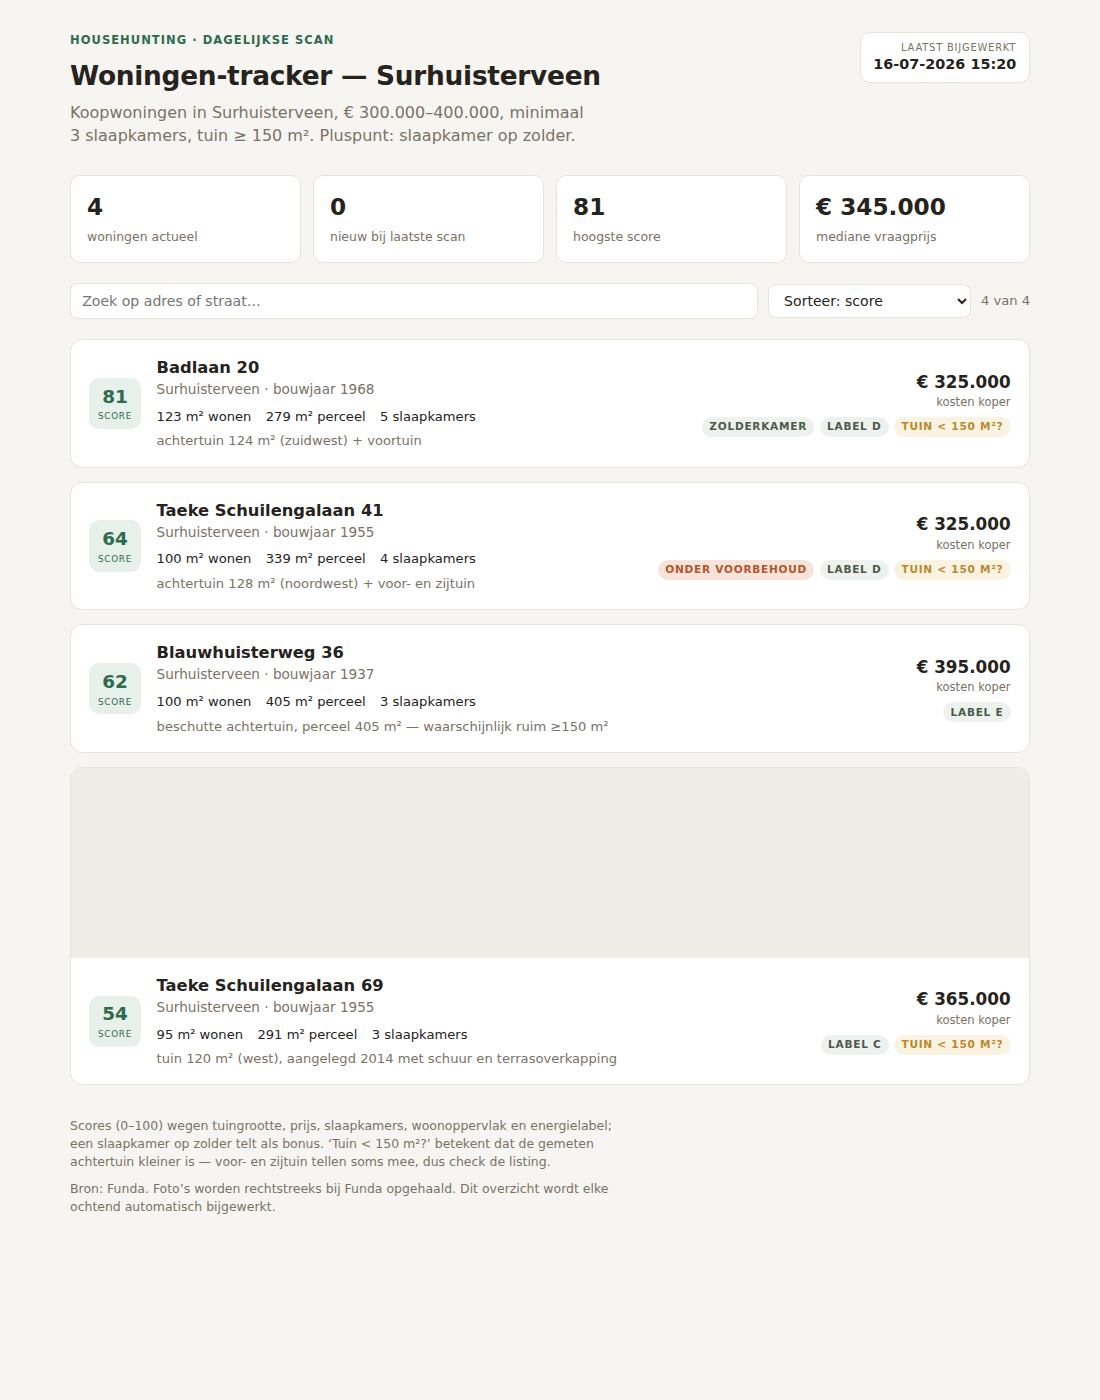
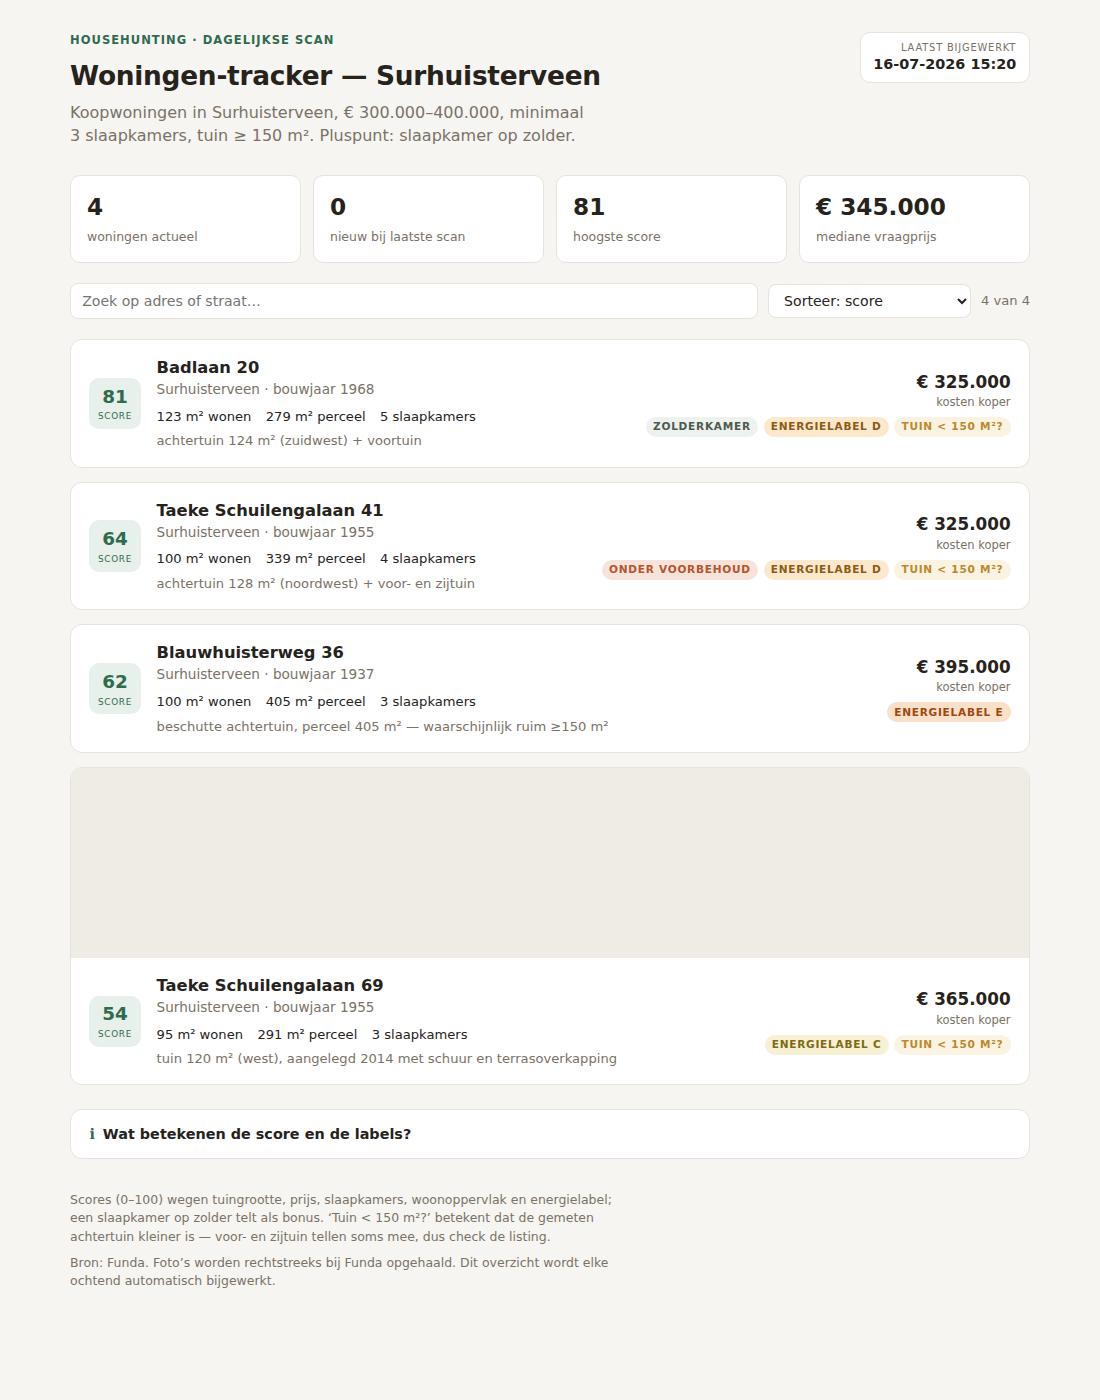
Uitlegblok + kleurgecodeerde energielabels + tooltips op alle badges

diff --git a/_build/template.html b/_build/template.html
@@ -72,6 +72,21 @@
   .b-new{background:#f6e3d9; color:var(--new)}
   .b-label{background:#eef2ee; color:#4c5a4c}
   .b-tuin{background:#fbf3e2; color:var(--gold)}
+  .b-eA{background:#dff0e2; color:#1c6b3a}
+  .b-eB{background:#e7f0d8; color:#4a7020}
+  .b-eC{background:#f7f0d2; color:#7d6a12}
+  .b-eD{background:#fbe8cd; color:#8f5a14}
+  .b-eE{background:#fadfc9; color:#9c4a10}
+  .b-eFG{background:#f8d9d2; color:#a03421}
+  .badge[title]{cursor:help}
+  .uitleg{margin-top:1.5rem; background:var(--card); border:1px solid var(--line); border-radius:12px}
+  .uitleg summary{padding:.85rem 1.15rem; cursor:pointer; font-weight:600; font-size:.9rem; list-style:none}
+  .uitleg summary::before{content:"\2139\FE0E"; margin-right:.5rem; color:var(--accent)}
+  .uitleg[open] summary{border-bottom:1px solid var(--line)}
+  .uitleg .body{padding:1rem 1.15rem; font-size:.85rem; color:var(--ink)}
+  .uitleg .body p{margin-bottom:.6rem; max-width:70ch}
+  .uitleg .body p:last-child{margin-bottom:0}
+  .uitleg .body .badge{margin-right:.3rem}
   footer{margin-top:2rem; font-size:.78rem; color:var(--muted); max-width:70ch}
   footer p+p{margin-top:.5rem}
   @media (max-width:640px){
@@ -116,6 +131,15 @@
 
   <div class="list" id="list"></div>
 
+  <details class="uitleg">
+    <summary>Wat betekenen de score en de labels?</summary>
+    <div class="body">
+      <p><strong>Score (0&ndash;100):</strong> hoe goed de woning bij jullie wensen past. Telt mee: tuingrootte, prijs (goedkoper is beter binnen het budget), aantal slaapkamers, woonoppervlak, energielabel, een slaapkamer op zolder (+10) en een voorkeursstraat (+5). Boven de 75 is een sterke match; onder de 60 voldoet de woning w&eacute;l aan de eisen maar zonder extra&rsquo;s.</p>
+      <p><strong>Energielabel</strong> (schaal A&ndash;G): hoe zuinig de woning is &mdash; <span class="badge b-eA">A = zeer zuinig</span> <span class="badge b-eC">C&ndash;D = gemiddeld</span> <span class="badge b-eFG">F&ndash;G = onzuinig</span>. Een slechter label betekent hogere energiekosten en vaak nog isolatiewerk.</p>
+      <p><span class="badge b-new">Nieuw</span> vandaag voor het eerst gevonden &middot; <span class="badge b-new">Onder voorbehoud</span> er is al een koper, verkoop bijna rond &middot; <span class="badge b-label">Zolderkamer</span> slaapkamer op zolder aanwezig (jullie wens) &middot; <span class="badge b-label">Voorkeursstraat</span> straat van jullie voorkeurslijst &middot; <span class="badge b-tuin">Tuin &lt; 150 m&sup2;?</span> gemeten achtertuin is kleiner dan de eis &mdash; voor- en zijtuin tellen soms mee, dus check de listing zelf.</p>
+    </div>
+  </details>
+
   <footer>
     <p>Scores (0&ndash;100) wegen tuingrootte, prijs, slaapkamers, woonoppervlak en energielabel; een slaapkamer op zolder telt als bonus. &lsquo;Tuin&nbsp;&lt;&nbsp;150&nbsp;m&sup2;?&rsquo; betekent dat de gemeten achtertuin kleiner is &mdash; voor- en zijtuin tellen soms mee, dus check de listing.</p>
     <p>Bron: Funda. Foto&rsquo;s worden rechtstreeks bij Funda opgehaald. Dit overzicht wordt elke ochtend automatisch bijgewerkt.</p>
@@ -131,6 +155,11 @@ const isNew = x => x.status === "nieuw";
 el("t-new").textContent = DATA.filter(isNew).length;
 el("t-top").textContent = DATA.length ? Math.max(...DATA.map(x=>x.score)) : "–";
 
+function labelBadge(l){
+  if(!l || l==="–") return "";
+  const cls = l.startsWith("A") ? "b-eA" : l==="B" ? "b-eB" : l==="C" ? "b-eC" : l==="D" ? "b-eD" : l==="E" ? "b-eE" : "b-eFG";
+  return `<span class="badge ${cls}" title="Energielabel ${l} — schaal van A (zeer zuinig) tot G (onzuinig)">Energielabel ${l}</span>`;
+}
 function card(x){
   const foto = x.foto
     ? `<img class="foto" src="${x.foto}" loading="lazy" alt="Foto ${x.adres}" referrerpolicy="no-referrer" onerror="this.closest('.huis').classList.add('nofoto')">`
@@ -138,7 +167,7 @@ function card(x){
   return `<article class="huis${x.foto ? '' : ' nofoto'}">
     ${foto}
     <div class="row">
-      <div class="scorebox"><b>${x.score}</b><span>score</span></div>
+      <div class="scorebox" title="Matchscore 0–100: hoe goed deze woning bij jullie wensen past — zie de uitleg onderaan"><b>${x.score}</b><span>score</span></div>
       <div>
         <h2><a href="${x.url}" target="_blank" rel="noopener">${x.adres}</a></h2>
         <div class="plaats">${x.plaats}${x.bouwjaar ? " &middot; bouwjaar " + x.bouwjaar : ""}</div>
@@ -152,12 +181,12 @@ function card(x){
       <div class="prijs">
         <b>&euro;&nbsp;${nf.format(x.prijs)}</b><span class="kk">kosten koper</span>
         <div class="badges">
-          ${isNew(x) ? '<span class="badge b-new">Nieuw</span>' : ""}
-          ${x.voorkeur ? '<span class="badge b-label">Voorkeursstraat</span>' : ""}
-          ${x.voorbehoud ? '<span class="badge b-new">Onder voorbehoud</span>' : ""}
-          ${x.zolder ? '<span class="badge b-label">Zolderkamer</span>' : ""}
-          ${x.label!=="–" ? '<span class="badge b-label">Label '+x.label+'</span>' : ""}
-          ${x.tuinTwijfel ? '<span class="badge b-tuin">Tuin &lt; 150 m&sup2;?</span>' : ""}
+          ${isNew(x) ? '<span class="badge b-new" title="Bij de laatste scan voor het eerst gevonden">Nieuw</span>' : ""}
+          ${x.voorkeur ? '<span class="badge b-label" title="Deze straat staat op jullie voorkeurslijst (+5 score)">Voorkeursstraat</span>' : ""}
+          ${x.voorbehoud ? '<span class="badge b-new" title="Er is al een koper; de verkoop is bijna rond">Onder voorbehoud</span>' : ""}
+          ${x.zolder ? '<span class="badge b-label" title="Slaapkamer op zolder aanwezig (+10 score)">Zolderkamer</span>' : ""}
+          ${labelBadge(x.label)}
+          ${x.tuinTwijfel ? '<span class="badge b-tuin" title="De gemeten achtertuin is kleiner dan 150 m² — voor- en zijtuin tellen soms mee, check de listing">Tuin &lt; 150 m&sup2;?</span>' : ""}
         </div>
       </div>
     </div>

diff --git a/index.html b/index.html
@@ -72,6 +72,21 @@
   .b-new{background:#f6e3d9; color:var(--new)}
   .b-label{background:#eef2ee; color:#4c5a4c}
   .b-tuin{background:#fbf3e2; color:var(--gold)}
+  .b-eA{background:#dff0e2; color:#1c6b3a}
+  .b-eB{background:#e7f0d8; color:#4a7020}
+  .b-eC{background:#f7f0d2; color:#7d6a12}
+  .b-eD{background:#fbe8cd; color:#8f5a14}
+  .b-eE{background:#fadfc9; color:#9c4a10}
+  .b-eFG{background:#f8d9d2; color:#a03421}
+  .badge[title]{cursor:help}
+  .uitleg{margin-top:1.5rem; background:var(--card); border:1px solid var(--line); border-radius:12px}
+  .uitleg summary{padding:.85rem 1.15rem; cursor:pointer; font-weight:600; font-size:.9rem; list-style:none}
+  .uitleg summary::before{content:"\2139\FE0E"; margin-right:.5rem; color:var(--accent)}
+  .uitleg[open] summary{border-bottom:1px solid var(--line)}
+  .uitleg .body{padding:1rem 1.15rem; font-size:.85rem; color:var(--ink)}
+  .uitleg .body p{margin-bottom:.6rem; max-width:70ch}
+  .uitleg .body p:last-child{margin-bottom:0}
+  .uitleg .body .badge{margin-right:.3rem}
   footer{margin-top:2rem; font-size:.78rem; color:var(--muted); max-width:70ch}
   footer p+p{margin-top:.5rem}
   @media (max-width:640px){
@@ -116,6 +131,15 @@
 
   <div class="list" id="list"></div>
 
+  <details class="uitleg">
+    <summary>Wat betekenen de score en de labels?</summary>
+    <div class="body">
+      <p><strong>Score (0&ndash;100):</strong> hoe goed de woning bij jullie wensen past. Telt mee: tuingrootte, prijs (goedkoper is beter binnen het budget), aantal slaapkamers, woonoppervlak, energielabel, een slaapkamer op zolder (+10) en een voorkeursstraat (+5). Boven de 75 is een sterke match; onder de 60 voldoet de woning w&eacute;l aan de eisen maar zonder extra&rsquo;s.</p>
+      <p><strong>Energielabel</strong> (schaal A&ndash;G): hoe zuinig de woning is &mdash; <span class="badge b-eA">A = zeer zuinig</span> <span class="badge b-eC">C&ndash;D = gemiddeld</span> <span class="badge b-eFG">F&ndash;G = onzuinig</span>. Een slechter label betekent hogere energiekosten en vaak nog isolatiewerk.</p>
+      <p><span class="badge b-new">Nieuw</span> vandaag voor het eerst gevonden &middot; <span class="badge b-new">Onder voorbehoud</span> er is al een koper, verkoop bijna rond &middot; <span class="badge b-label">Zolderkamer</span> slaapkamer op zolder aanwezig (jullie wens) &middot; <span class="badge b-label">Voorkeursstraat</span> straat van jullie voorkeurslijst &middot; <span class="badge b-tuin">Tuin &lt; 150 m&sup2;?</span> gemeten achtertuin is kleiner dan de eis &mdash; voor- en zijtuin tellen soms mee, dus check de listing zelf.</p>
+    </div>
+  </details>
+
   <footer>
     <p>Scores (0&ndash;100) wegen tuingrootte, prijs, slaapkamers, woonoppervlak en energielabel; een slaapkamer op zolder telt als bonus. &lsquo;Tuin&nbsp;&lt;&nbsp;150&nbsp;m&sup2;?&rsquo; betekent dat de gemeten achtertuin kleiner is &mdash; voor- en zijtuin tellen soms mee, dus check de listing.</p>
     <p>Bron: Funda. Foto&rsquo;s worden rechtstreeks bij Funda opgehaald. Dit overzicht wordt elke ochtend automatisch bijgewerkt.</p>
@@ -131,6 +155,11 @@ const isNew = x => x.status === "nieuw";
 el("t-new").textContent = DATA.filter(isNew).length;
 el("t-top").textContent = DATA.length ? Math.max(...DATA.map(x=>x.score)) : "–";
 
+function labelBadge(l){
+  if(!l || l==="–") return "";
+  const cls = l.startsWith("A") ? "b-eA" : l==="B" ? "b-eB" : l==="C" ? "b-eC" : l==="D" ? "b-eD" : l==="E" ? "b-eE" : "b-eFG";
+  return `<span class="badge ${cls}" title="Energielabel ${l} — schaal van A (zeer zuinig) tot G (onzuinig)">Energielabel ${l}</span>`;
+}
 function card(x){
   const foto = x.foto
     ? `<img class="foto" src="${x.foto}" loading="lazy" alt="Foto ${x.adres}" referrerpolicy="no-referrer" onerror="this.closest('.huis').classList.add('nofoto')">`
@@ -138,7 +167,7 @@ function card(x){
   return `<article class="huis${x.foto ? '' : ' nofoto'}">
     ${foto}
     <div class="row">
-      <div class="scorebox"><b>${x.score}</b><span>score</span></div>
+      <div class="scorebox" title="Matchscore 0–100: hoe goed deze woning bij jullie wensen past — zie de uitleg onderaan"><b>${x.score}</b><span>score</span></div>
       <div>
         <h2><a href="${x.url}" target="_blank" rel="noopener">${x.adres}</a></h2>
         <div class="plaats">${x.plaats}${x.bouwjaar ? " &middot; bouwjaar " + x.bouwjaar : ""}</div>
@@ -152,12 +181,12 @@ function card(x){
       <div class="prijs">
         <b>&euro;&nbsp;${nf.format(x.prijs)}</b><span class="kk">kosten koper</span>
         <div class="badges">
-          ${isNew(x) ? '<span class="badge b-new">Nieuw</span>' : ""}
-          ${x.voorkeur ? '<span class="badge b-label">Voorkeursstraat</span>' : ""}
-          ${x.voorbehoud ? '<span class="badge b-new">Onder voorbehoud</span>' : ""}
-          ${x.zolder ? '<span class="badge b-label">Zolderkamer</span>' : ""}
-          ${x.label!=="–" ? '<span class="badge b-label">Label '+x.label+'</span>' : ""}
-          ${x.tuinTwijfel ? '<span class="badge b-tuin">Tuin &lt; 150 m&sup2;?</span>' : ""}
+          ${isNew(x) ? '<span class="badge b-new" title="Bij de laatste scan voor het eerst gevonden">Nieuw</span>' : ""}
+          ${x.voorkeur ? '<span class="badge b-label" title="Deze straat staat op jullie voorkeurslijst (+5 score)">Voorkeursstraat</span>' : ""}
+          ${x.voorbehoud ? '<span class="badge b-new" title="Er is al een koper; de verkoop is bijna rond">Onder voorbehoud</span>' : ""}
+          ${x.zolder ? '<span class="badge b-label" title="Slaapkamer op zolder aanwezig (+10 score)">Zolderkamer</span>' : ""}
+          ${labelBadge(x.label)}
+          ${x.tuinTwijfel ? '<span class="badge b-tuin" title="De gemeten achtertuin is kleiner dan 150 m² — voor- en zijtuin tellen soms mee, check de listing">Tuin &lt; 150 m&sup2;?</span>' : ""}
         </div>
       </div>
     </div>